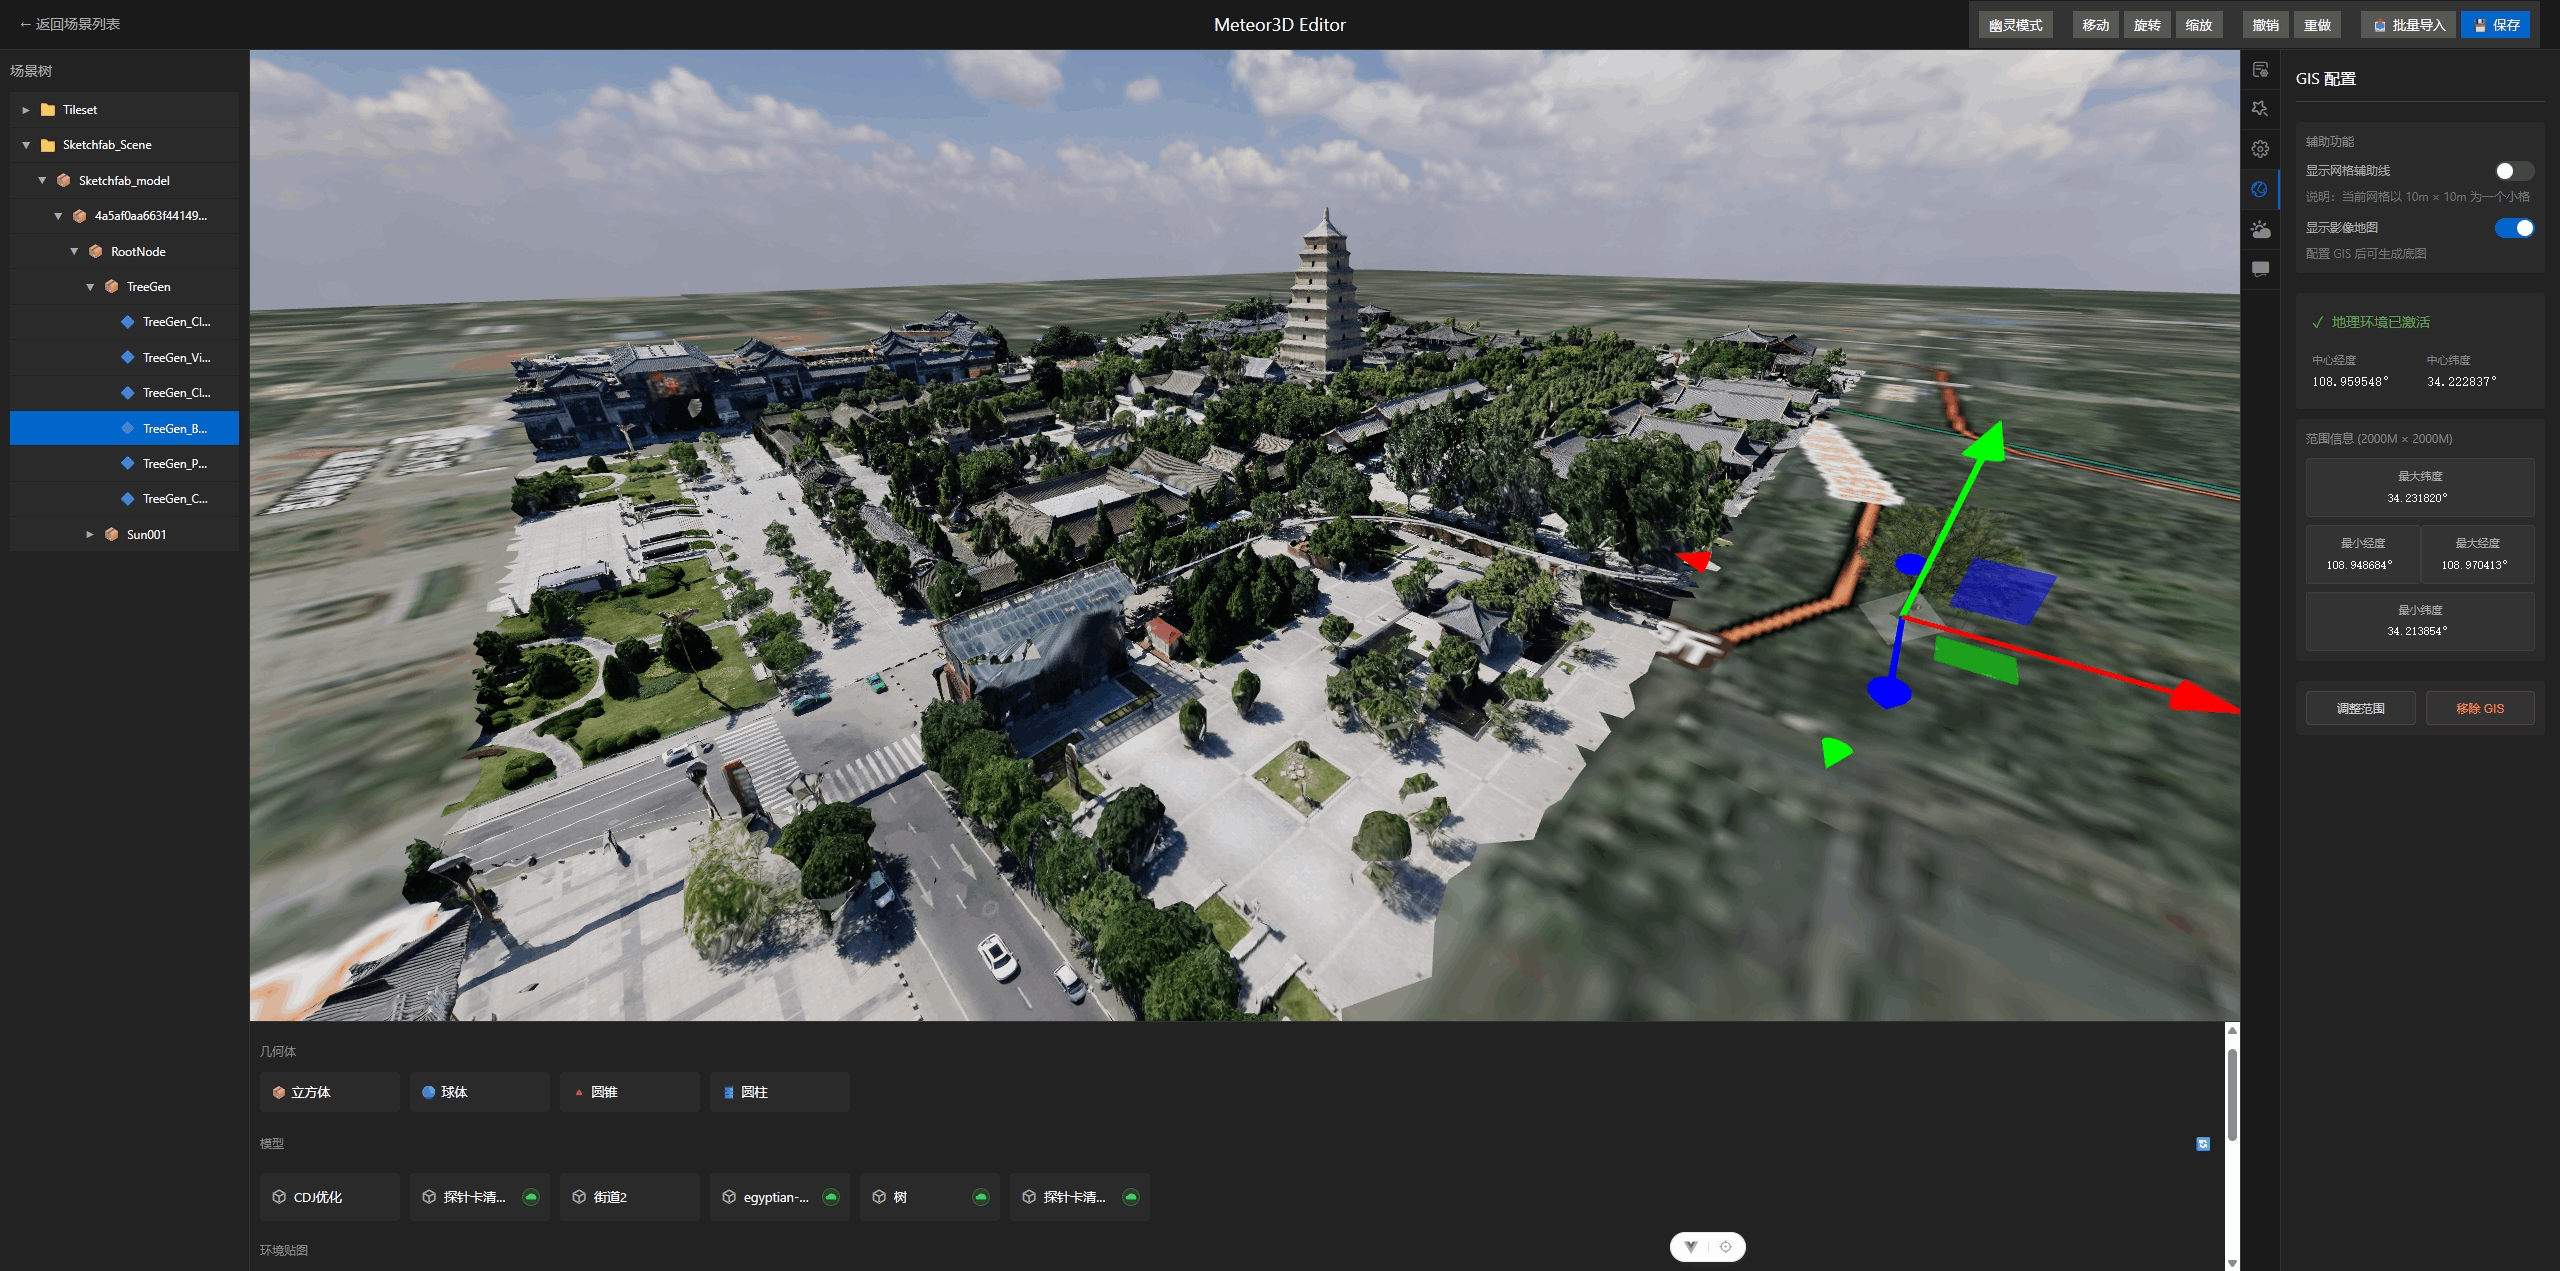
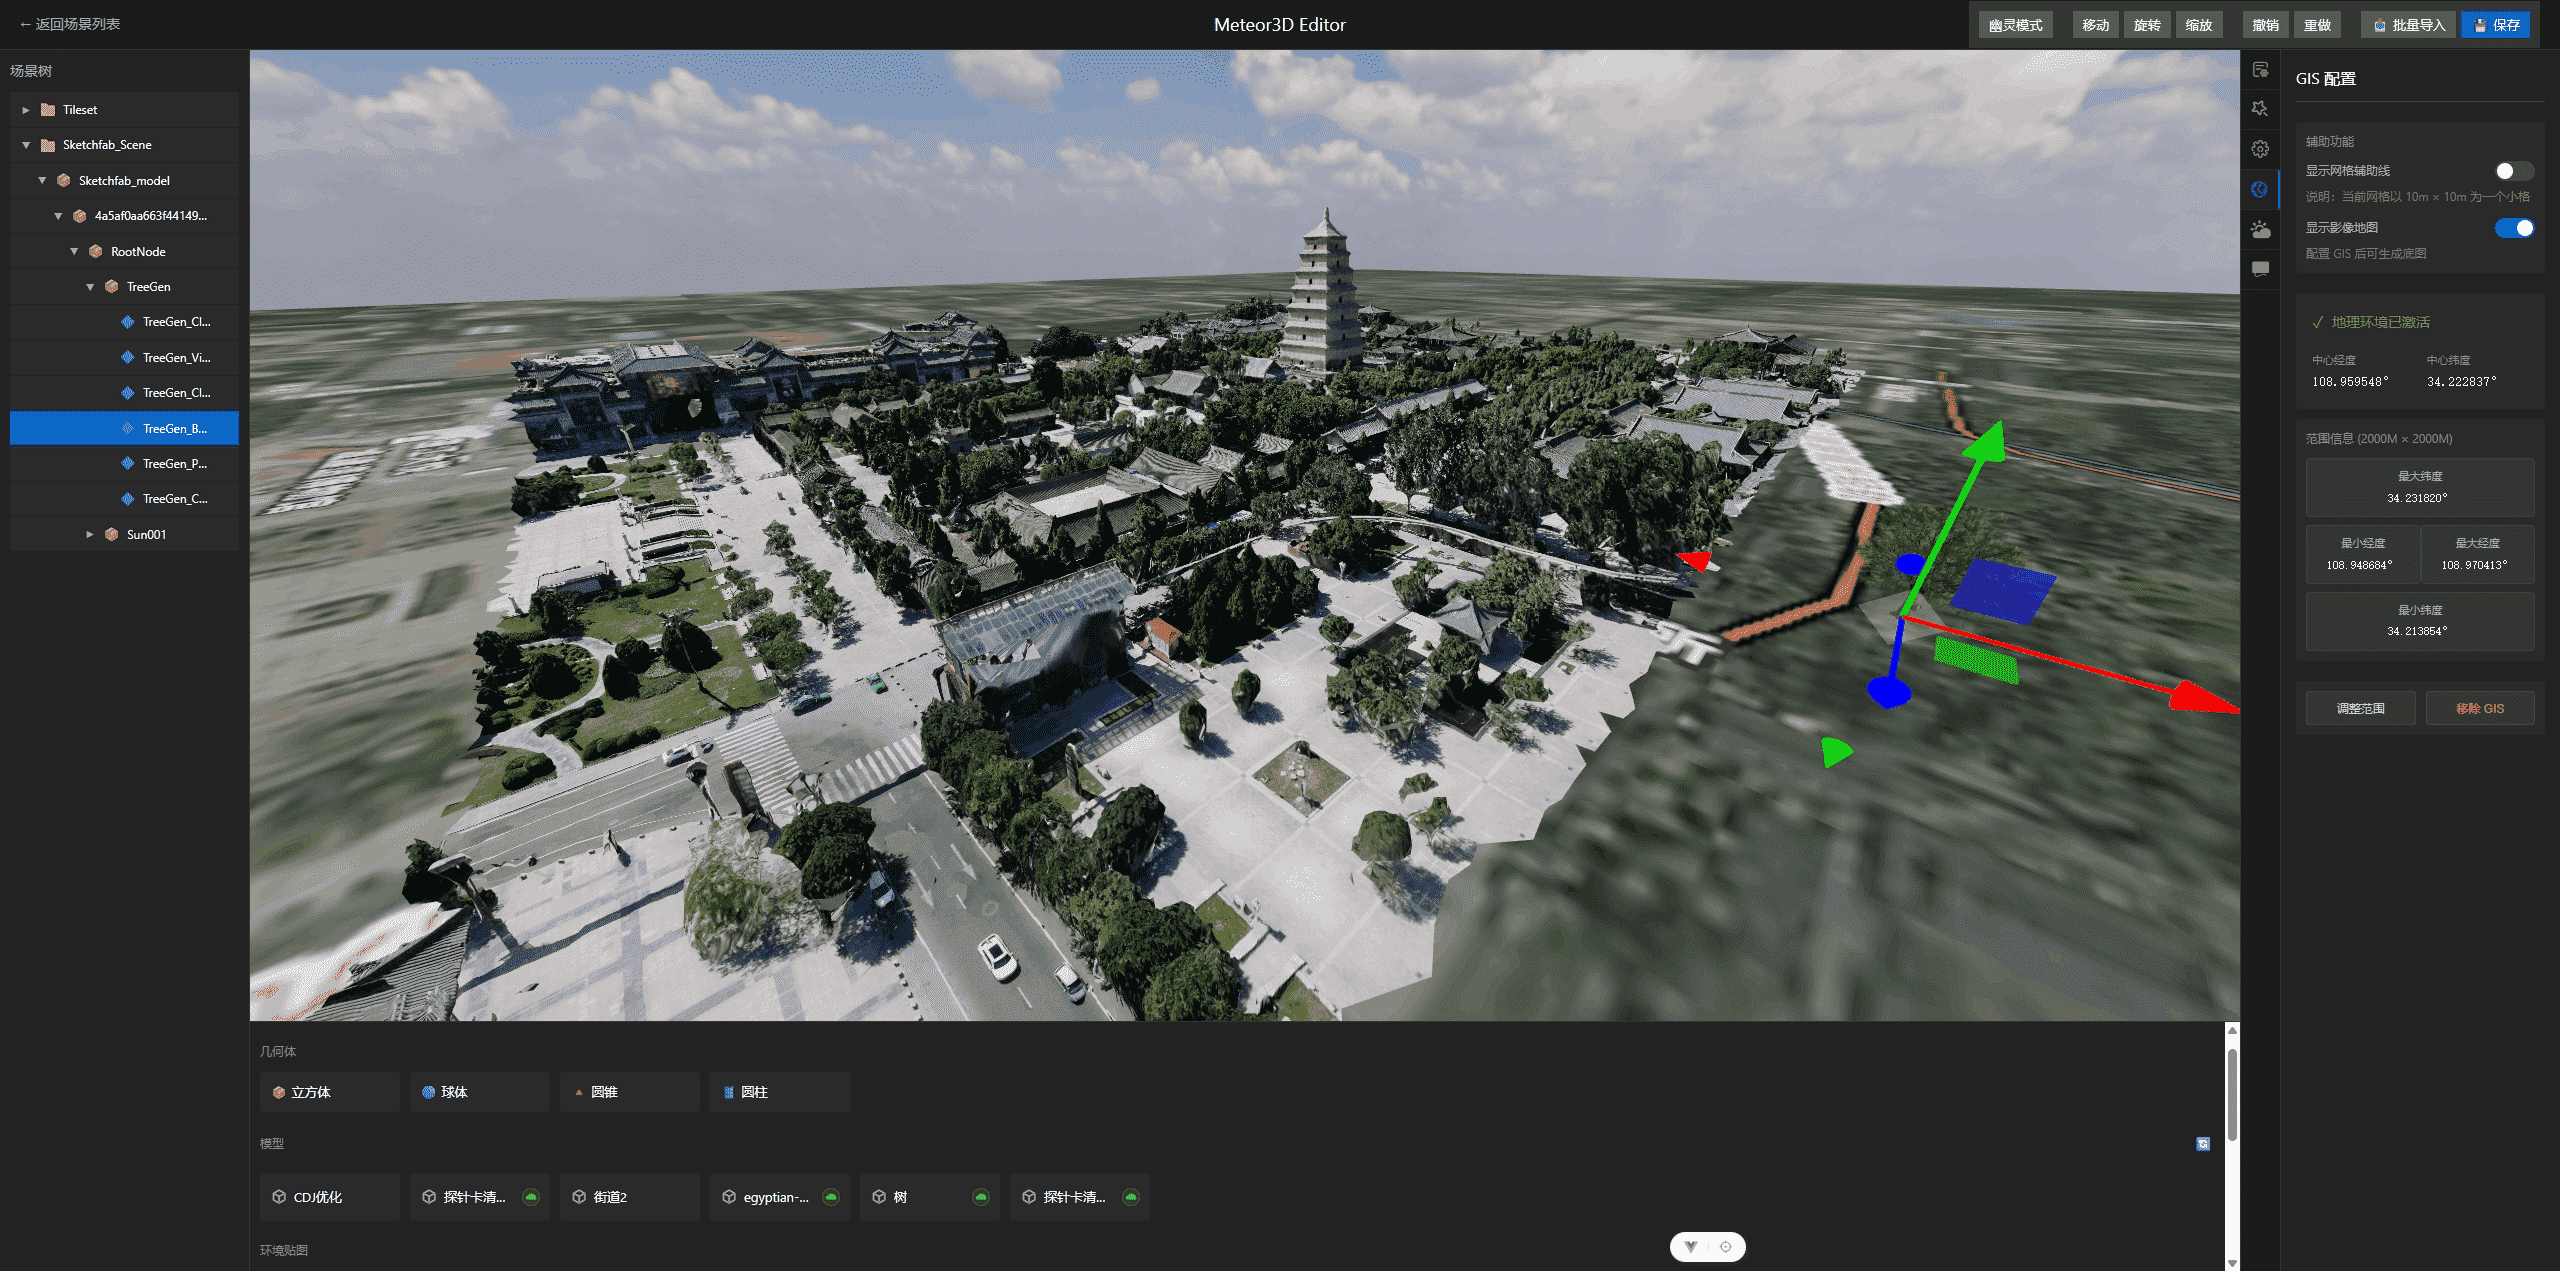
readme

diff --git a/README.md b/README.md
@@ -61,7 +61,7 @@
 - 🚀 **一键预览** - 所见即所得，秒级部署上线
 
 <p align="center">
-  <img src="./packages/scene-editor/public/应用编辑器.jpg" alt="应用编辑器" width="800">
+  <img src="./packages/scene-editor/public/应用编辑器.png" alt="应用编辑器" width="800">
 </p>
 
 ---
